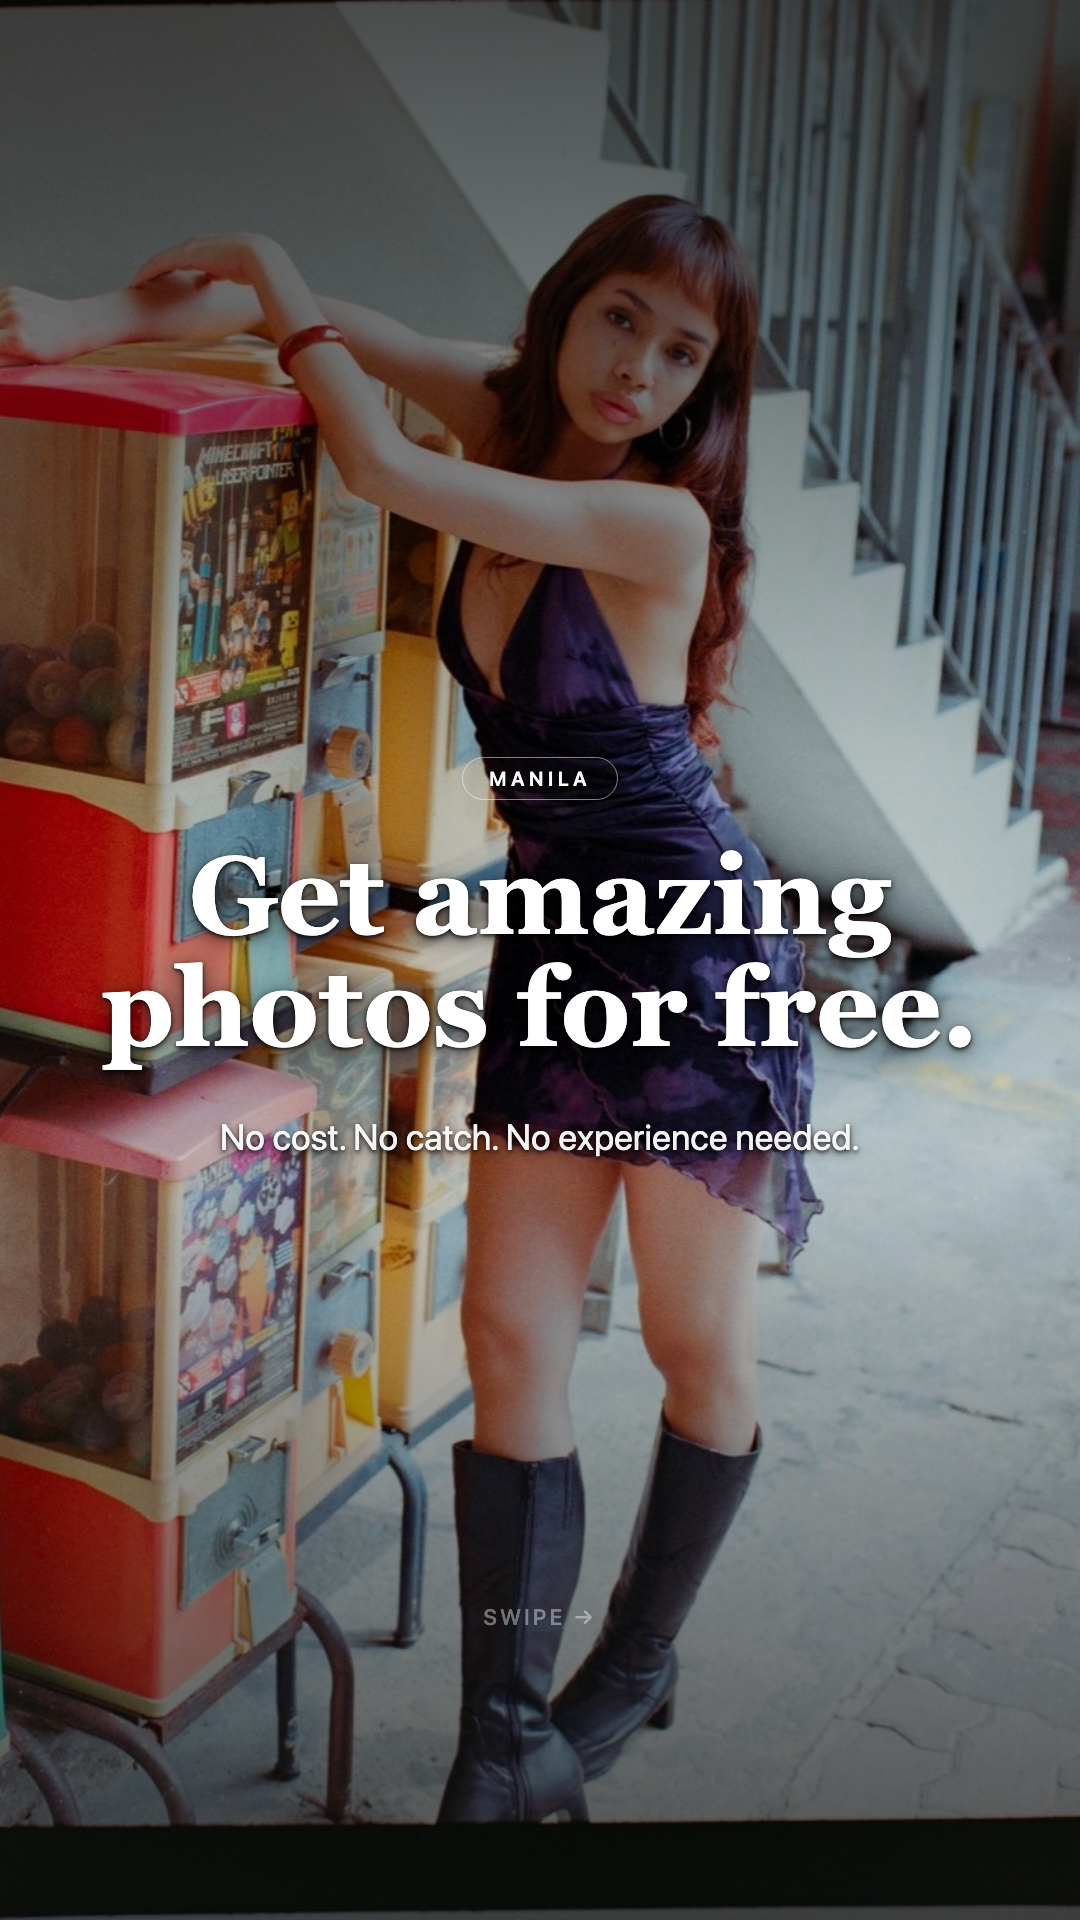
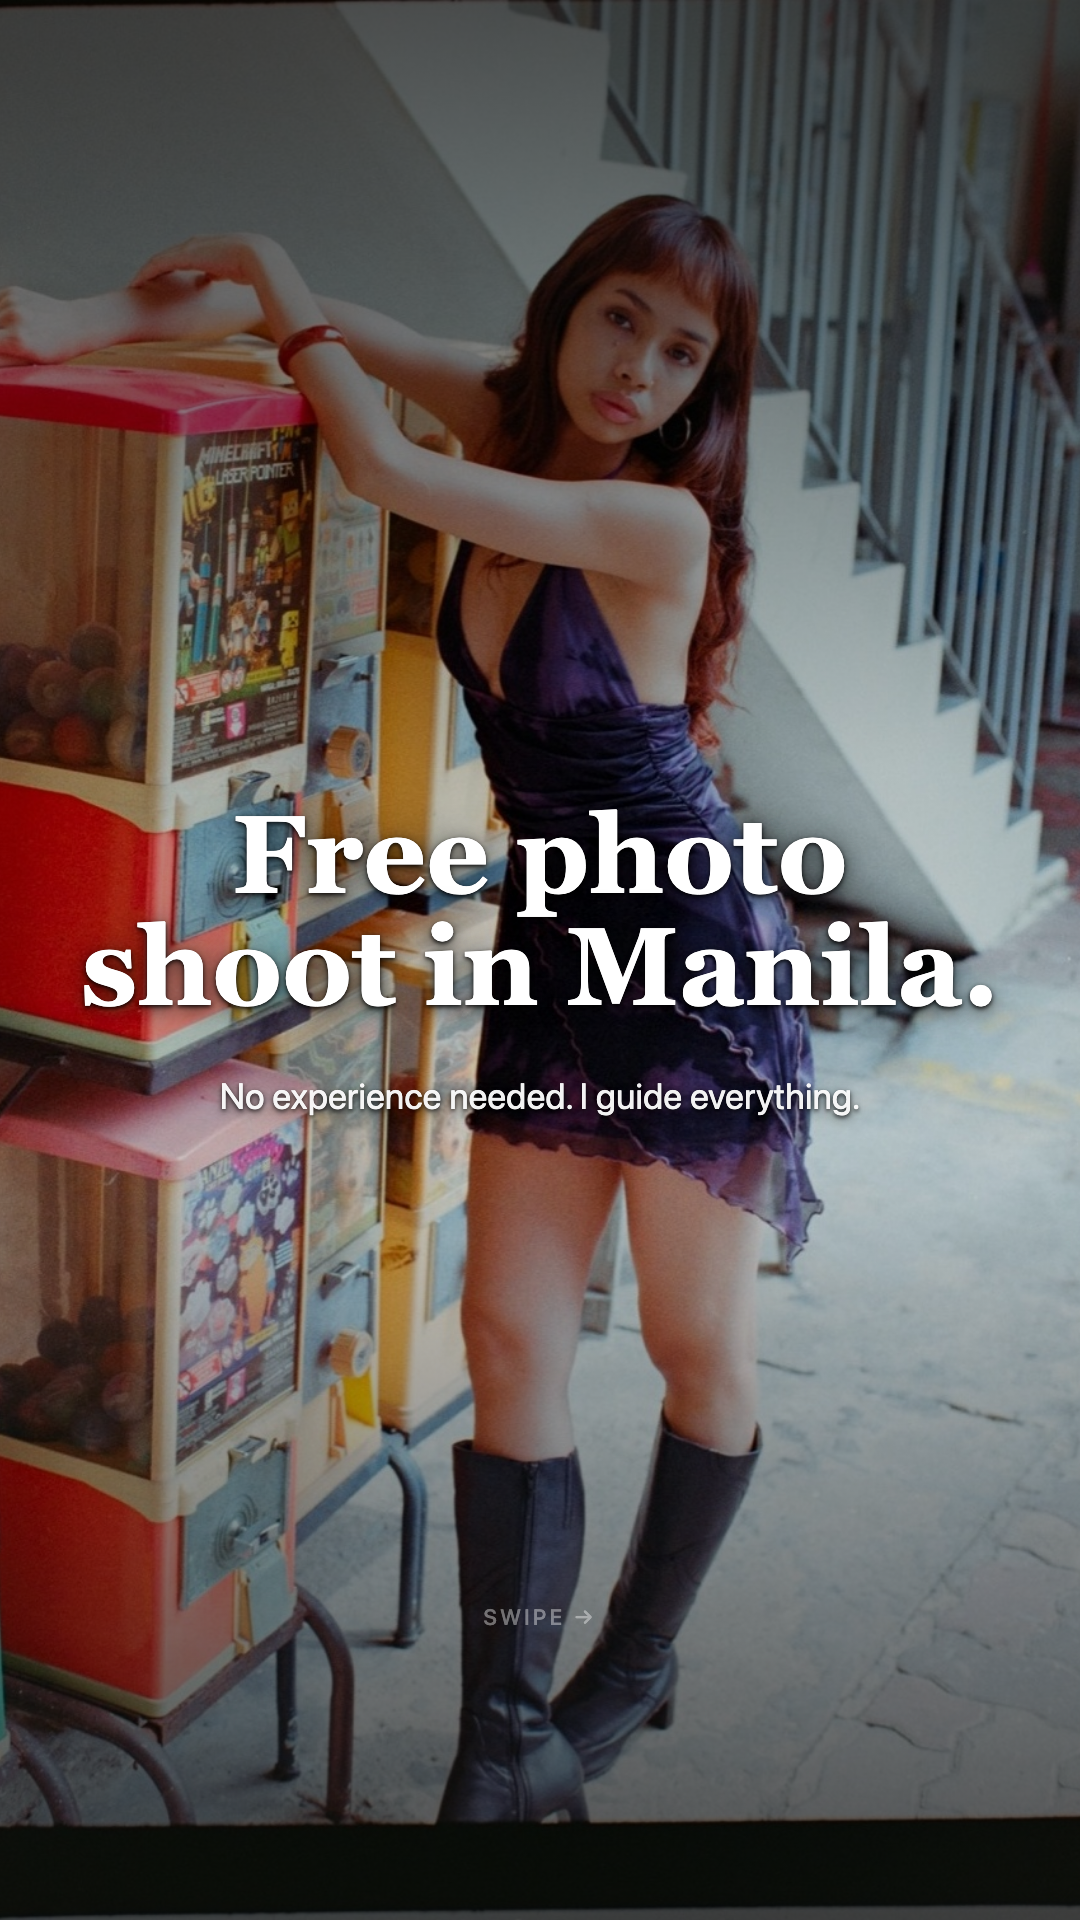
AI: Simplify hook to "Free photo shoot in Manila", remove "no catch"
- Slide 1: "Free photo shoot in Manila." - simple, location prominent
- Removed "no cost, no catch" everywhere (sketchy vibes)
- Green badge now just says "100% free"
- Updated landing page to match

Changed region(s): [[0.0611, 0.4062, 0.9167, 0.625]]

diff --git a/app/manila-free/page.tsx b/app/manila-free/page.tsx
@@ -99,7 +99,7 @@ export default function ManilaFreePage(){
               <p className="mt-2 text-sm text-neutral-700">
                 Pick a time for a quick intro call. We&apos;ll chat to see if it&apos;s a good fit and plan your shoot.
               </p>
-              <p className="mt-2 text-sm font-semibold text-green-700">100% free - no cost, no catch</p>
+              <p className="mt-2 text-sm font-semibold text-green-700">100% free</p>
               <ManilaFreeCTA />
             </div>
 
@@ -192,7 +192,7 @@ export default function ManilaFreePage(){
             <p className="mt-3 max-w-2xl text-sm text-neutral-700 sm:text-base">
               Pick a time for a quick intro call. Spots are limited.
             </p>
-            <p className="mt-2 text-sm font-semibold text-green-700">100% free - no cost, no catch</p>
+            <p className="mt-2 text-sm font-semibold text-green-700">100% free</p>
             <div className="max-w-2xl">
               <ManilaFreeCTA />
             </div>
